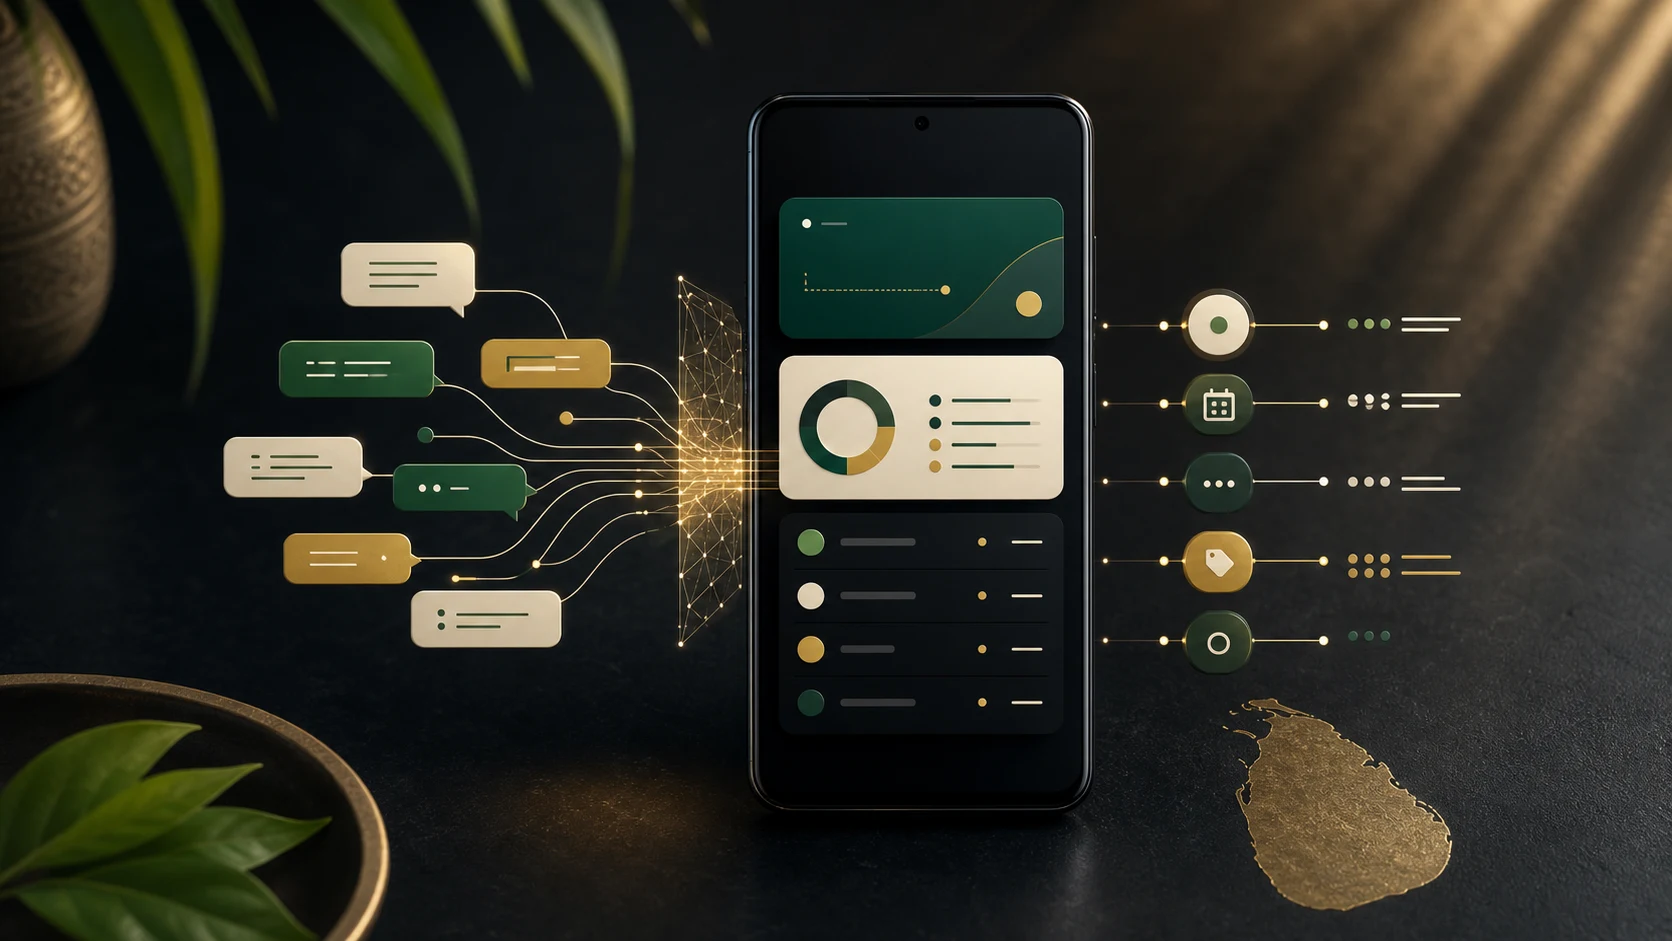
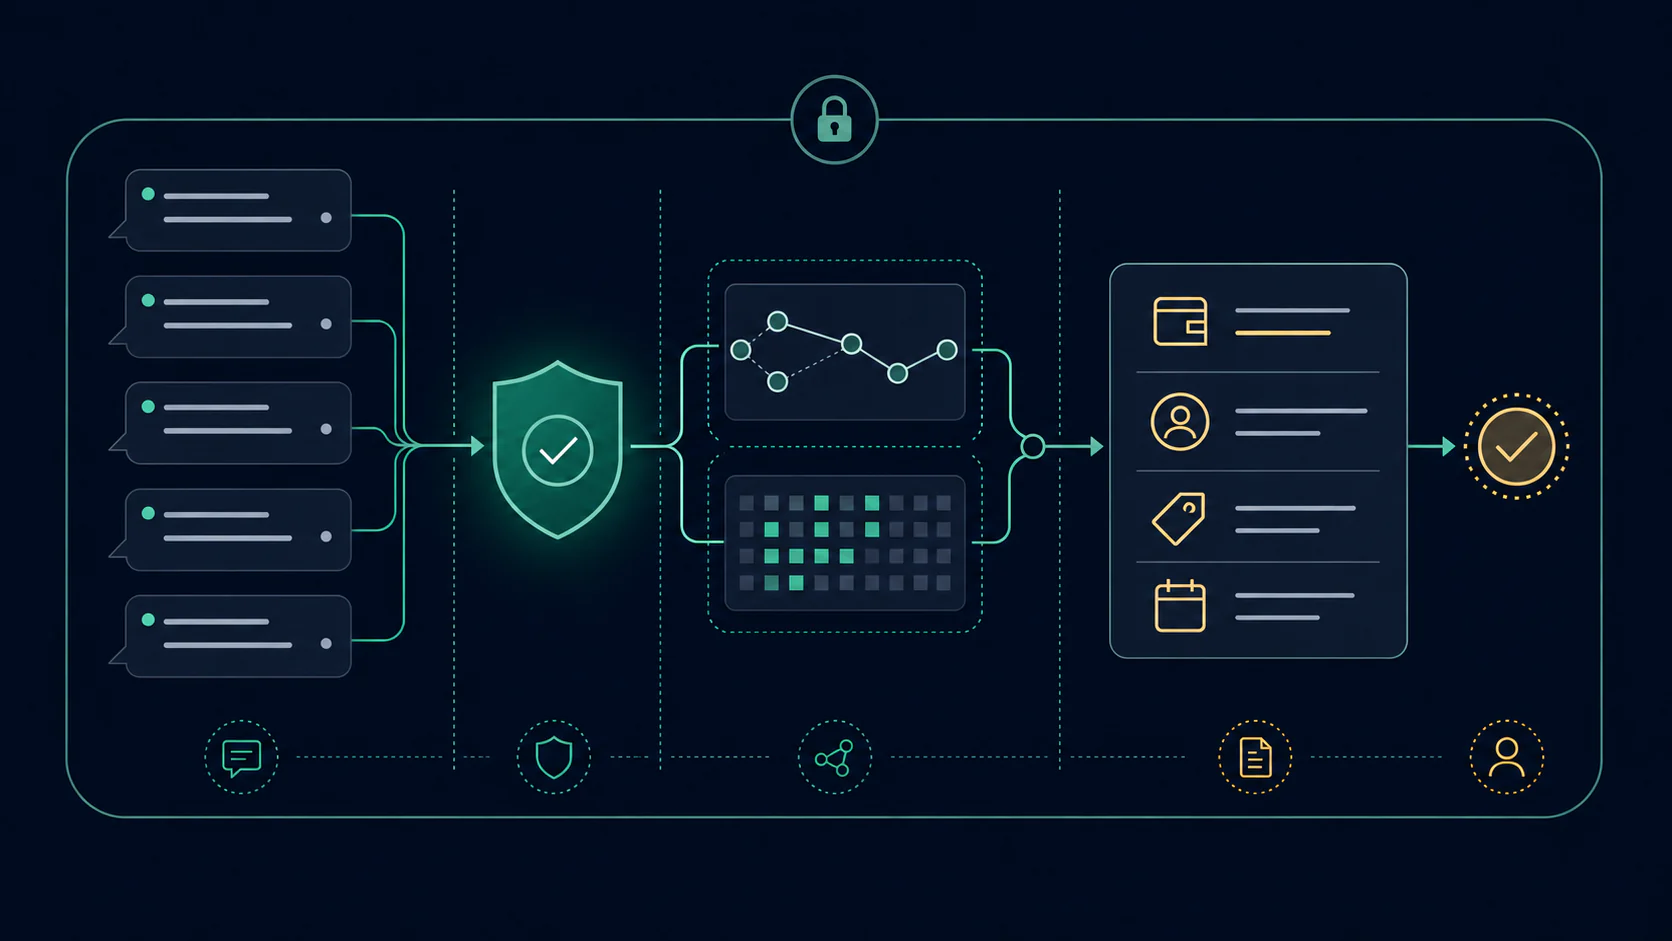
feat(content): refine Salli featured artwork

diff --git a/src/content/blog/building-salli.md b/src/content/blog/building-salli.md
@@ -4,7 +4,7 @@ description: 'An engineering account of Salli, from brittle regular expressions 
 date: 2026-07-26
 tags: ['flutter', 'on-device ML', 'privacy', 'android']
 image: '/images/blog/salli/salli-engineering-cover.webp'
-imageAlt: 'An abstract Android phone turns private SMS fragments into structured personal finance data on the device'
+imageAlt: 'A technical diagram shows private SMS passing through an on-device safety gate, evidence extraction, and human review'
 imageWidth: 1672
 imageHeight: 941
 category: 'engineering'
